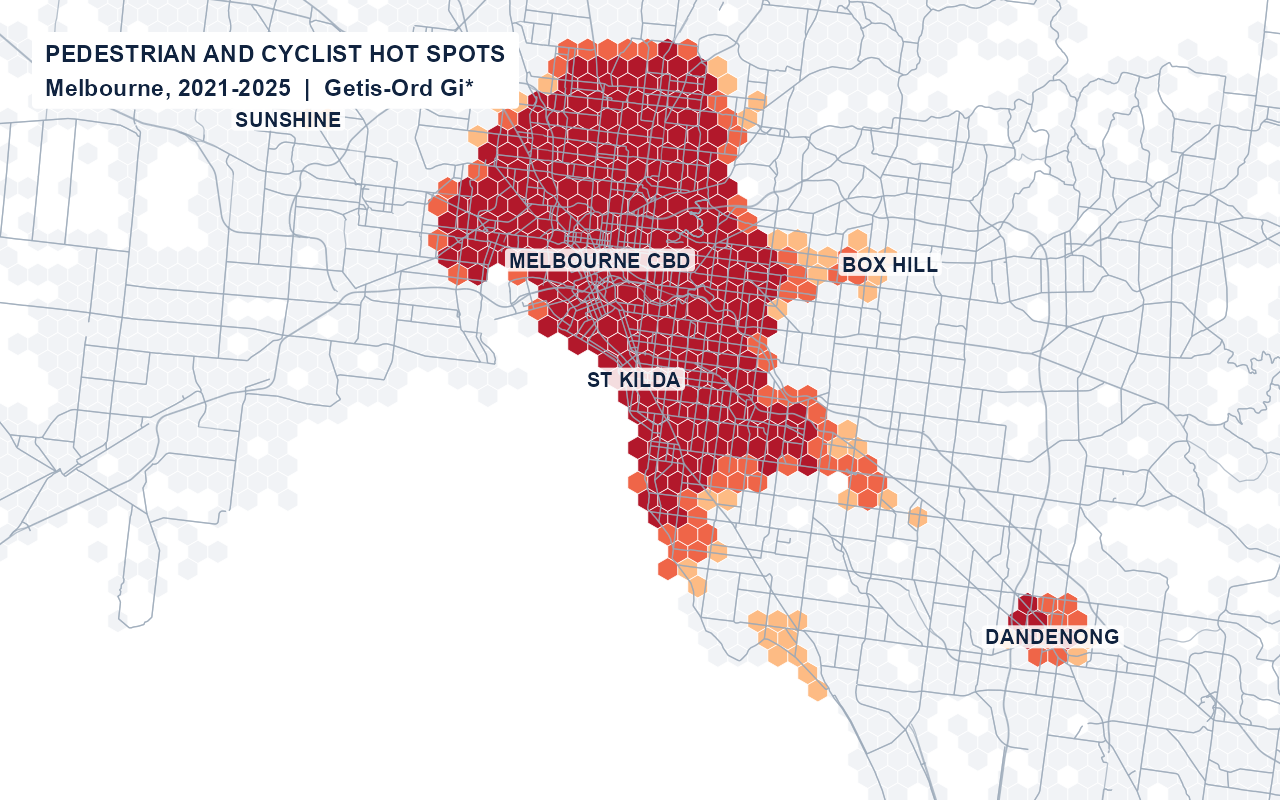
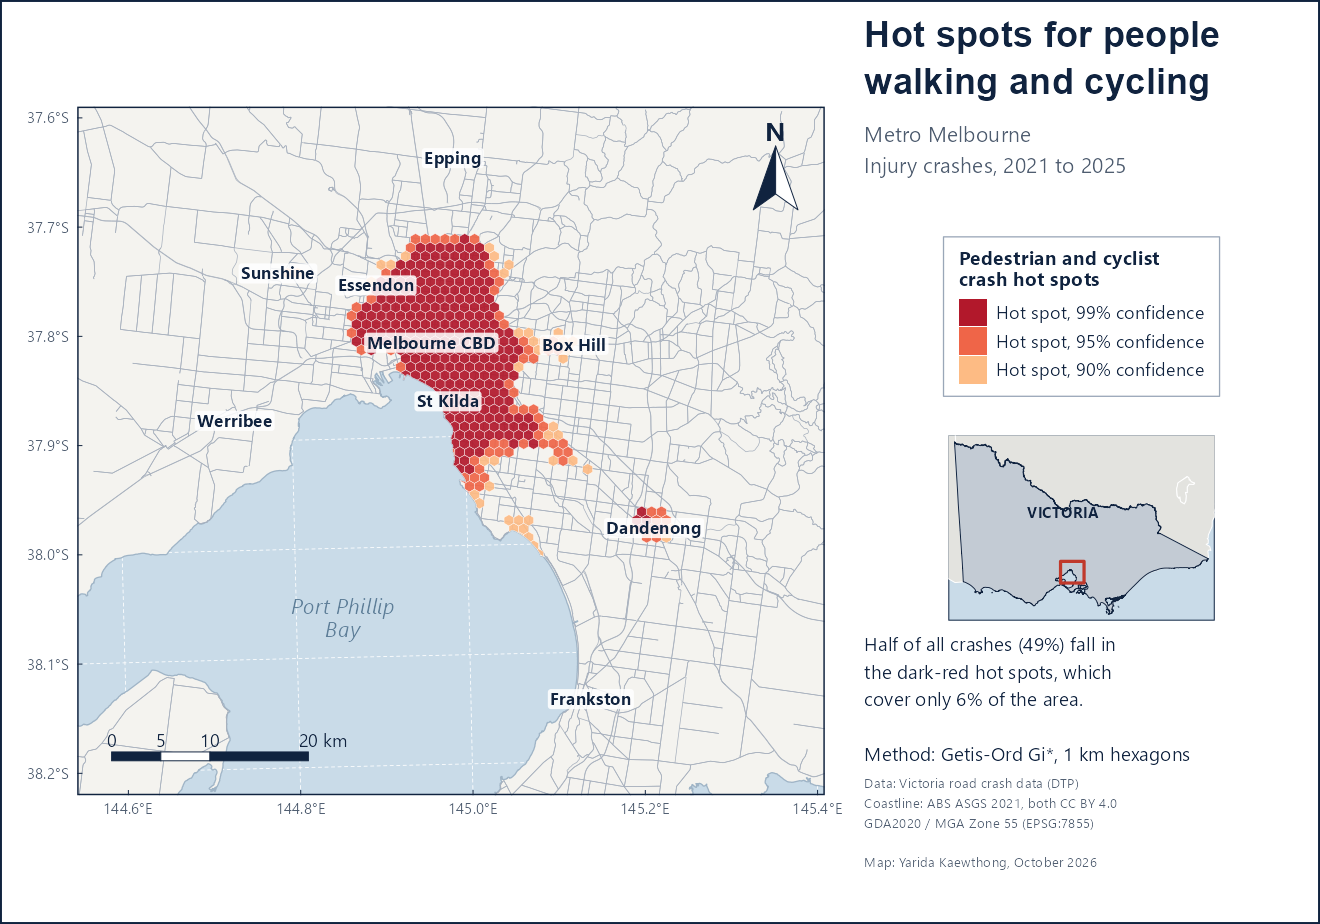
Use the full map layout as the Melbourne card cover
Shown whole (object-fit: contain on white) so the legend, locator map and
credits aren't cropped by the 16:9 card frame. Card copy is 1320 px.

diff --git a/styles.css b/styles.css
@@ -152,6 +152,8 @@ button.button, button.contact-link { background: none; border: 0; padding: 0; fo
 .card-top { display: flex; justify-content: space-between; color: var(--accent); }
 .project-shot { position: relative; margin: 1.1rem 0 1.25rem; aspect-ratio: 16 / 9; overflow: hidden; border: 1px solid var(--line); background: var(--signal); }
 .project-shot img { display: block; width: 100%; height: 100%; object-fit: cover; object-position: top left; }
+.project-shot.is-contain { background: #ffffff; }
+.project-shot.is-contain img { object-fit: contain; object-position: center; }
 /* Fallback when a card image is missing: navy panel with the data-mark label */
 .project-shot::before { content: attr(data-mark); position: absolute; inset: 0; display: flex; align-items: center; justify-content: center; color: var(--accent); font-family: "DM Mono", monospace; font-size: clamp(3rem, 6vw, 5rem); font-weight: 500; letter-spacing: 0; }
 .project-shot img { position: relative; z-index: 1; }

diff --git a/index.html b/index.html
@@ -165,8 +165,8 @@
           <div class="project-grid">
             <a class="project-card" href="melbourne-crash.html">
               <div class="card-top"><span>01 / GIS · R</span><span>2026 <span aria-hidden="true">&rarr;</span></span></div>
-              <div class="project-shot" data-mark="km/h">
-                <img src="images/melbourne-card.png" alt="Hot-spot map of Melbourne: red hexagons cluster over the CBD, inner north, St Kilda and Dandenong" loading="lazy" />
+              <div class="project-shot is-contain" data-mark="km/h">
+                <img src="images/melbourne-card.png" alt="Map layout titled Hot spots for people walking and cycling: metro Melbourne with red hexagon hot spots over the CBD, St Kilda and Dandenong, with legend, Victoria locator map and north arrow" loading="lazy" width="1320" height="924" />
               </div>
               <div class="project-body">
                 <h3>Walking and cycling safety in Melbourne</h3>
